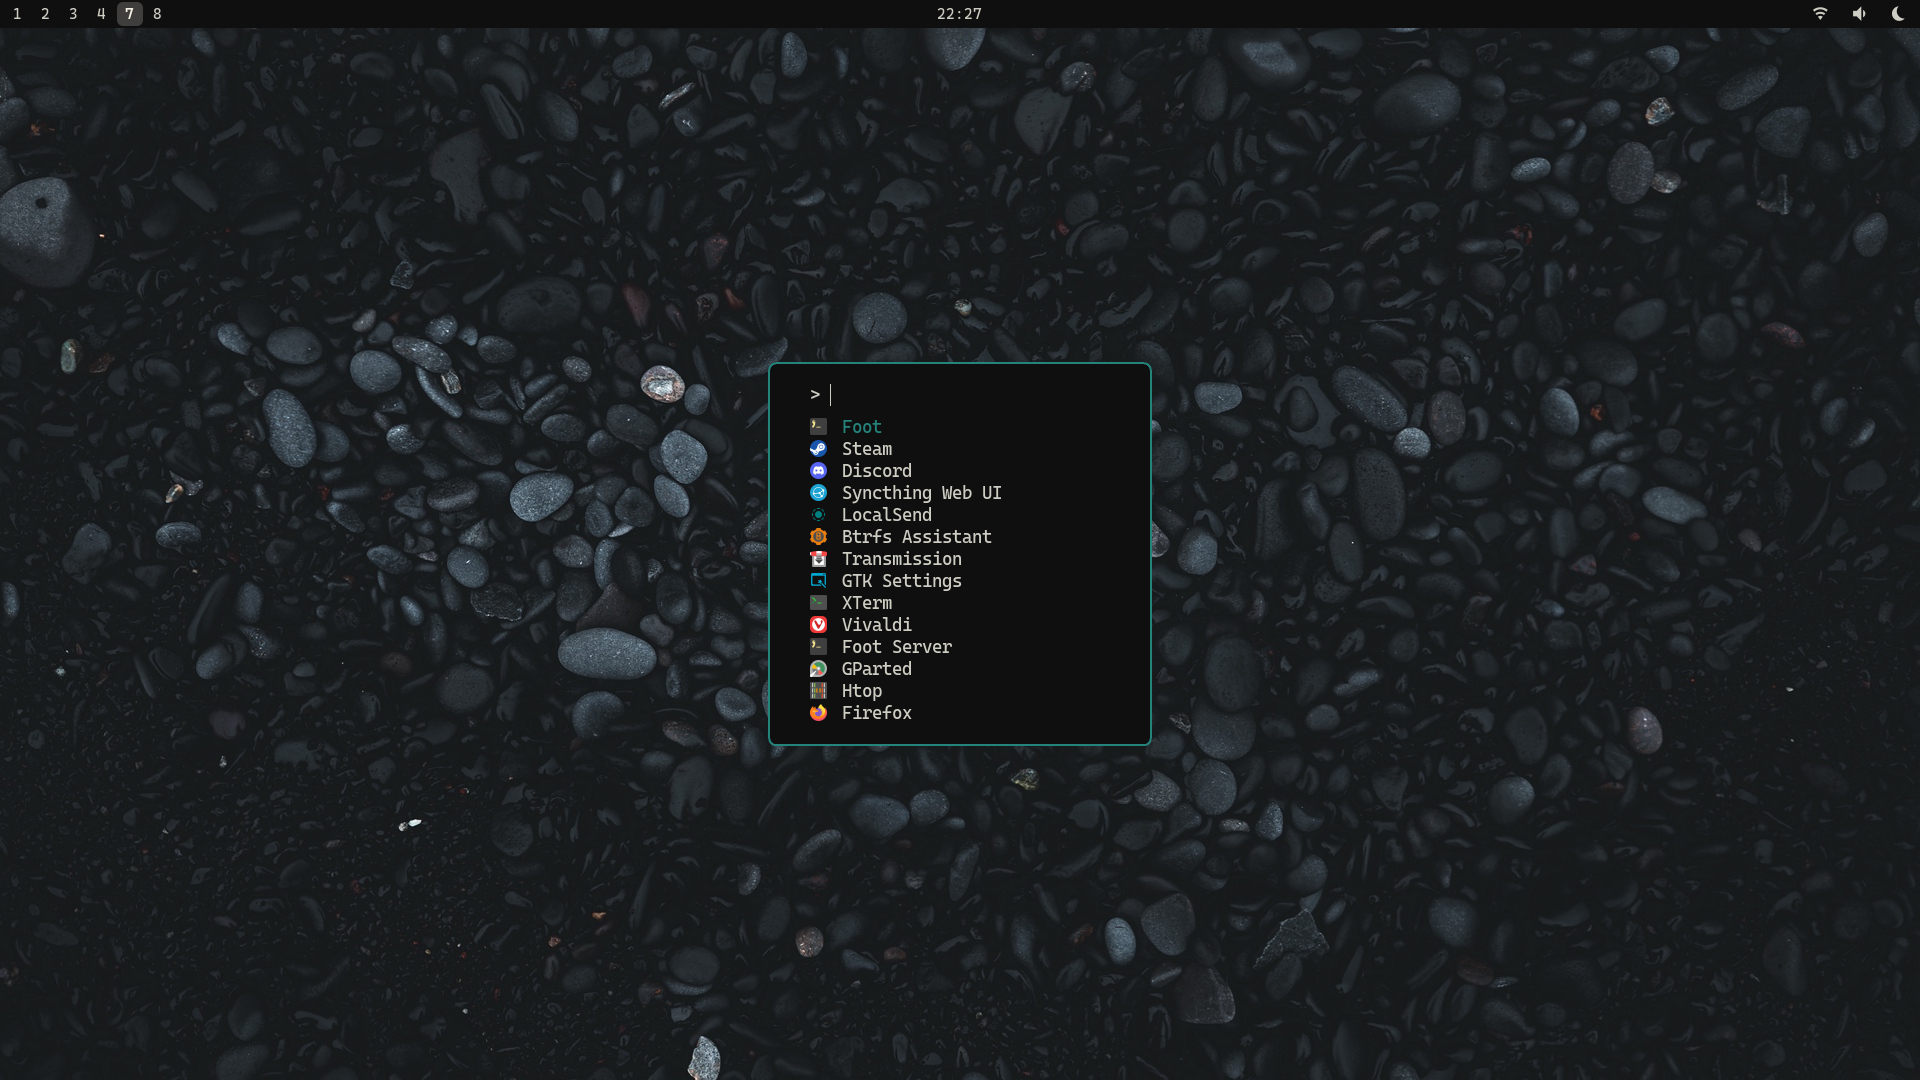
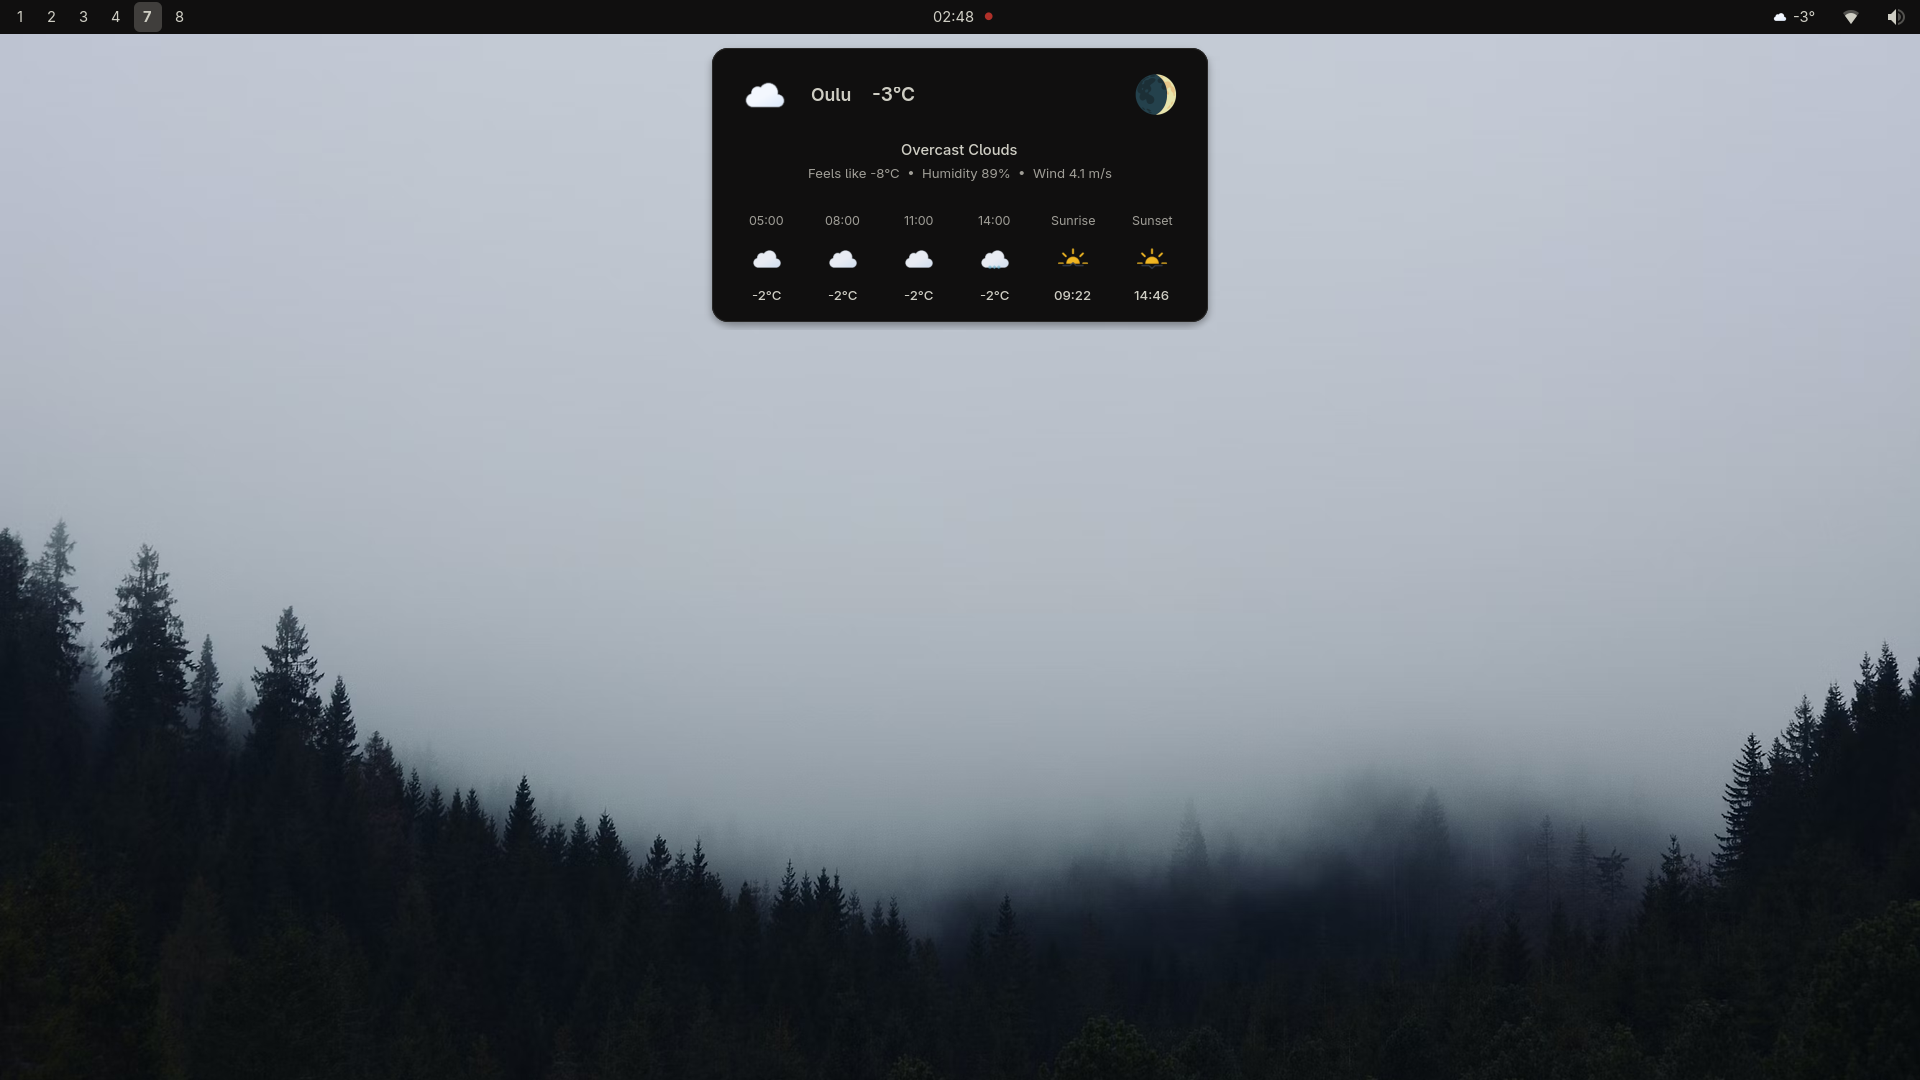
ignis shell WIP

diff --git a/README.md b/README.md
@@ -7,7 +7,7 @@
 ### Software I use
 
 - Distro: [Arch](https://archlinux.org)
-- Bar: [Waybar](https://github.com/Alexays/Waybar)
+- Shell: [ignis](https://github.com/ignis-sh/ignis?tab=readme-ov-file)
 - WM: [Hyprland](https://github.com/hyprwm/Hyprland)
 - Colors (mostly): [Flexoki](https://stephango.com/flexoki)
 - Editor: [neovim](https://neovim.io/)
@@ -18,7 +18,6 @@
 - Launcher: [fuzzel](https://codeberg.org/dnkl/fuzzel)
 - Login Manager: **greetd** with [tuigreet](https://github.com/apognu/tuigreet)
 - Media Player: [mpv](https://mpv.io/)
-- Notification daemon: [fnott](https://codeberg.org/dnkl/fnott)
 - Symbols and icons: [Nerd Font Symbols](https://www.nerdfonts.com/)
 - Terminal: [foot](https://codeberg.org/dnkl/foot)
 
@@ -30,29 +29,18 @@
 > Fuzzel
 >
 > <img src=".assets/screenshots/screenshot2.png" width="100%" />
-> Lockscreen
->
-> <img src=".assets/screenshots/hyprlock.png" width="100%" />
-
-> Some fuzzel menus
 
 <details>
-<summary><b>Settings</b></summary><br>
- <img src=".assets/screenshots/fuzzel-settings.png" width="50%" />
-</details>
-
-<details>
-<summary><b>Clipboard</b></summary><br>
-<img src=".assets/screenshots/fuzzel-clipboard.png" width="50%" />
-</details>
-
-<details>
-<summary><b>Emoji</b></summary><br>
-<img src=".assets/screenshots/fuzzel-emoji.png" width="50%" />
+<summary><b>Lockscreen</b></summary><br>
+<img src=".assets/screenshots/hyprlock.png" width="100%" />
 </details>
 <details>
-<summary><b>Window list</b></summary><br>
-<img src=".assets/screenshots/fuzzel_window.png" width="80%" />
+<summary><b>Notification Center</b></summary><br>
+<img src=".assets/screenshots/noti.png" width="50%" />
+</details>
+<details>
+<summary><b>Task list</b></summary><br>
+<img src=".assets/screenshots/task.png" width="80%" />
 </details>
 
 ---
@@ -160,6 +148,16 @@ I use my bar less and less, so recently I made this "barless mode" to launch wor
 ```bash
 bash <(curl -L https://codeberg.org/bt-halt/dotfiles/raw/branch/main/.assets/curl.sh)
 ```
+
+> Note: atm, you can get my ignis shell and componens [here](https://github.com/bitterhalt/comfy-shell)
+>
+> After main installation scrip clone my ignis repo and ignis directory ~/.config/
+
+```bash
+ignis init -c ~/.config/ignis/config.py
+```
+
+> Note this is not recomended daily driving atm, since it WIP and bugs may happen.
 
 ---
 
